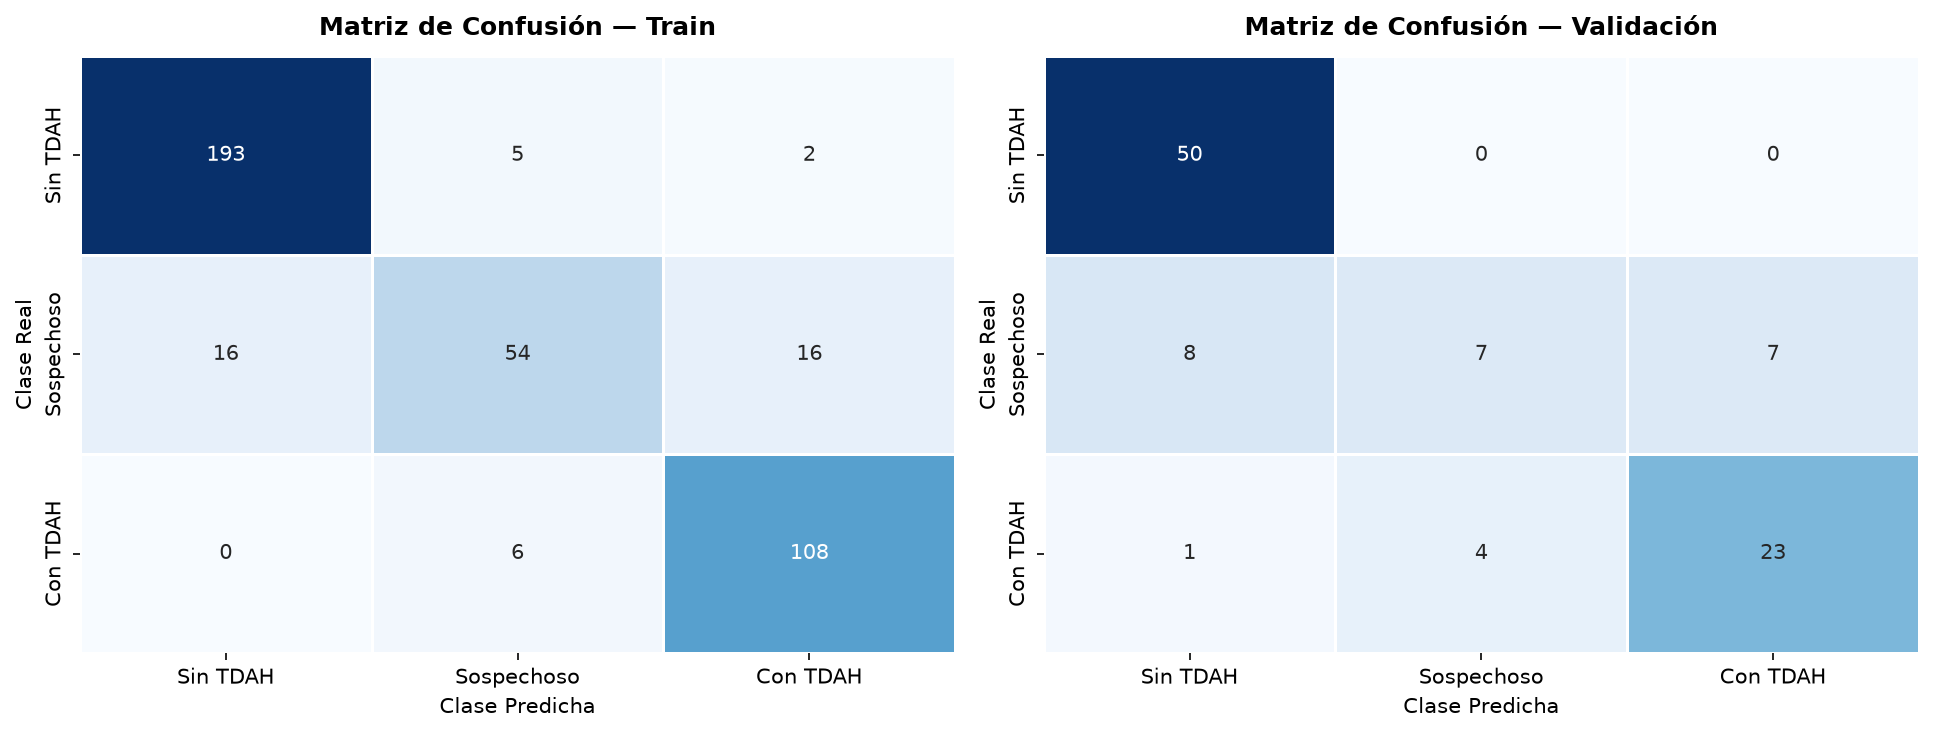
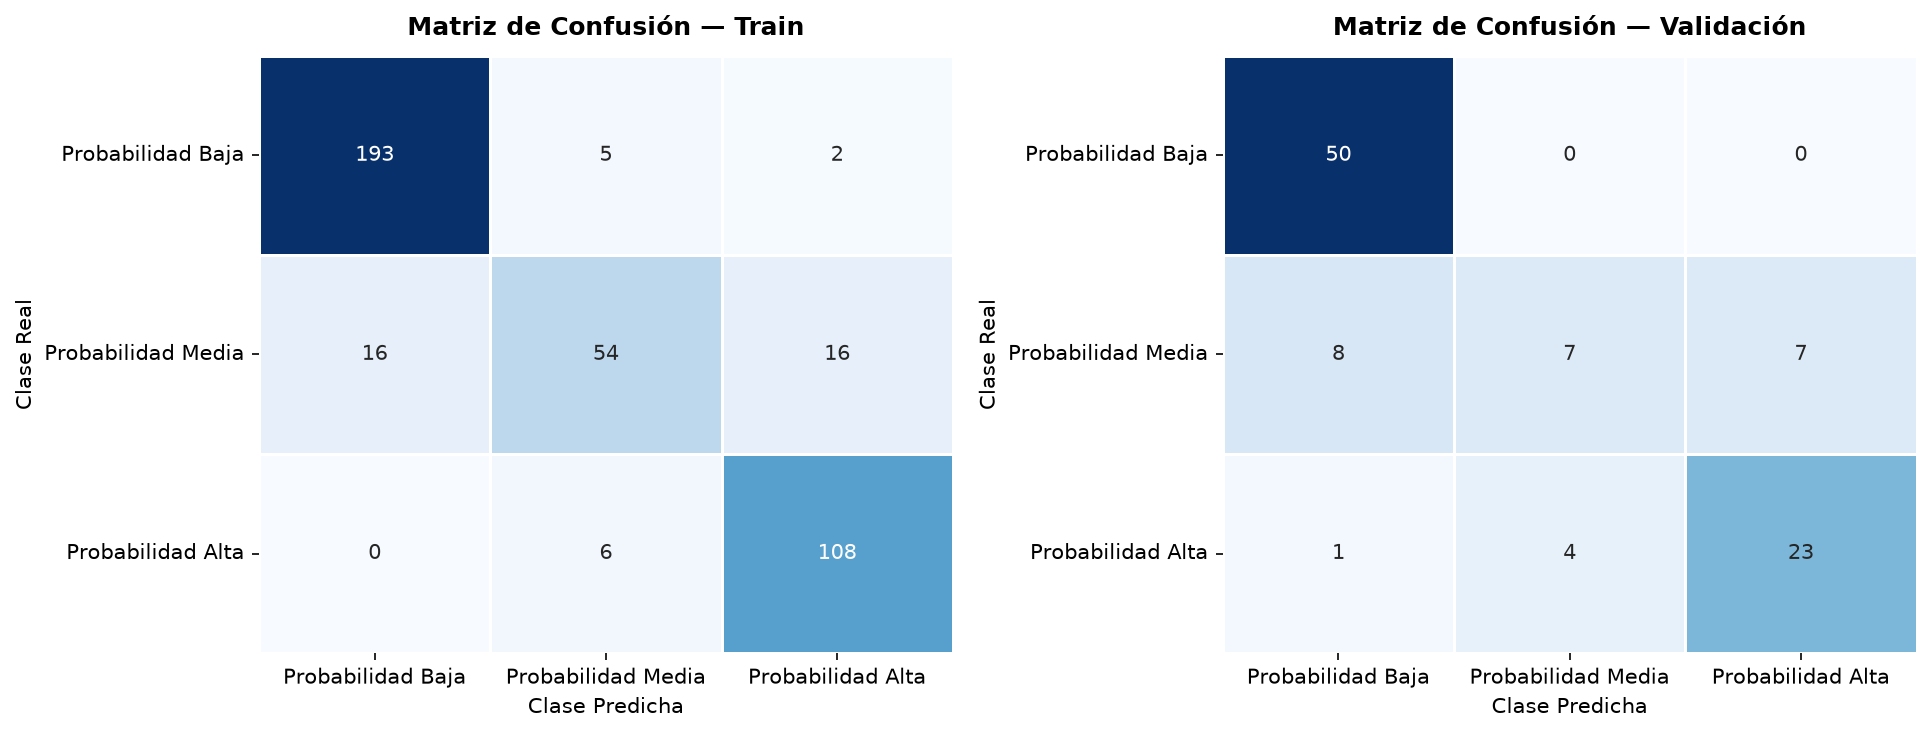
Soporte PostgreSQL, roles y configuracion para despliegue
- database.py configurable (PostgreSQL via DATABASE_URL, SQLite local) + .env
- models.py: longitudes de columnas ampliadas (compatibles con PostgreSQL)
- main.py: CORS configurable via CORS_ORIGINS
- frontend: URL de API configurable via VITE_API_URL
- roles con restricciones (Administrador/Psicologo/Docente)
- requirements con versiones fijadas + runtime.txt (Python 3.13) para Render
- etiquetas de figuras TDAH a "Probabilidad Baja/Media/Alta"

diff --git a/frontend/src/App.jsx b/frontend/src/App.jsx
@@ -4,14 +4,21 @@ import {
   Tooltip, Legend, ResponsiveContainer,
 } from "recharts";
 
-const API = "http://127.0.0.1:8000/api";
+// URL del backend: configurable por variable de entorno (VITE_API_URL) para el
+// despliegue; si no está definida, usa el backend local (desarrollo).
+const API = (import.meta.env.VITE_API_URL || "http://127.0.0.1:8000") + "/api";
 const views = ["dashboard", "general", "alumno", "lista", "encuesta", "predicciones", "notas", "expediente"];
 
-// Qué vistas puede ver cada rol (el docente no accede al expediente psicológico)
+// Restricciones de acceso por rol (basadas en confidencialidad clínica):
+//  - Psicólogo: acceso clínico COMPLETO (aplica EDAH, predice, ve SHAP y expediente).
+//  - Docente: solo lo ACADÉMICO (panorama general, lista e ingreso de notas).
+//             No accede a la encuesta EDAH, predicciones detalladas ni expediente.
+//  - Director: solo SUPERVISIÓN/lectura (dashboards y lista). No ingresa datos
+//              clínicos ni notas, ni accede al expediente psicológico confidencial.
 const VIEWS_POR_ROL = {
   "Administrador": views,
-  "Psicólogo": views,
-  "Docente": ["dashboard", "general", "alumno", "lista", "encuesta", "predicciones", "notas"],
+  "Psicólogo":     views,
+  "Docente":       ["dashboard", "general", "lista", "notas"],
 };
 const encuestaKeys = [
   "DA1", "DA2", "DA3", "DA4", "DA5",
@@ -69,7 +76,7 @@ const ASIGNATURAS_VALIDAS = [
   "Formación Integral",
 ];
 
-// Usuarios y roles que pueden acceder al sistema
+// Usuarios y roles que pueden acceder al sistema (Director / Psicólogo / Docente)
 const USUARIOS = {
   admin:     { password: "admin123",   rol: "Administrador" },
   psicologo: { password: "psico123",   rol: "Psicólogo" },
@@ -517,6 +524,9 @@ export default function App() {
   const [encuestaRespuestas, setEncuestaRespuestas] = useState([]);
 
   const goToView = (v) => {
+    // Control de acceso: el rol no puede navegar a vistas que no tiene permitidas.
+    const permitidas = VIEWS_POR_ROL[auth.rol] ?? views;
+    if (!permitidas.includes(v)) return;
     setActiveView(v);
     setStatus({ msg: "", error: false });
     setAlumnoFormError("");
@@ -529,6 +539,12 @@ export default function App() {
     if (v === "lista") loadTodosPredicciones();
     if (v === "general") { loadTodosPredicciones(); loadMetricas(); }
   };
+
+  // Seguridad: si el rol activo no tiene permiso para la vista actual, vuelve al dashboard.
+  useEffect(() => {
+    const permitidas = VIEWS_POR_ROL[auth.rol] ?? views;
+    if (auth.logged && !permitidas.includes(activeView)) setActiveView("dashboard");
+  }, [activeView, auth.rol, auth.logged]);
 
   async function loadMetricas() {
     try { setMetricas(await req("/metricas/")); } catch { setMetricas(null); }
@@ -805,9 +821,9 @@ export default function App() {
           </form>
           <div style={{ fontSize: "0.78rem", color: "#64748b", marginTop: 6, lineHeight: 1.7 }}>
             <div><strong>Accesos:</strong></div>
-            <div>👤 Administrador — <strong>admin</strong> / admin123</div>
-            <div>🧠 Psicólogo — <strong>psicologo</strong> / psico123</div>
-            <div>📚 Docente — <strong>docente</strong> / docente123</div>
+            <div>👤 Administrador — <strong>admin</strong> / admin123 <em>(acceso completo)</em></div>
+            <div>🧠 Psicólogo — <strong>psicologo</strong> / psico123 <em>(clínico completo)</em></div>
+            <div>📚 Docente — <strong>docente</strong> / docente123 <em>(académico)</em></div>
           </div>
           {status.msg && <p className="status" style={{ color: status.error ? "#d62828" : "#14732b" }}>{status.msg}</p>}
         </section>
@@ -838,7 +854,7 @@ export default function App() {
           <span className="sidebar-logo">📖</span>
           <div>
             <h2>Sistema</h2>
-            <span>{auth.rol || "admin"}</span>
+            <span>{auth.rol || "Usuario"}</span>
           </div>
         </div>
         <nav>

diff --git a/backend_fastapi/database.py b/backend_fastapi/database.py
@@ -1,10 +1,32 @@
+import os
+from dotenv import load_dotenv
 from sqlalchemy import create_engine
 from sqlalchemy.orm import sessionmaker, DeclarativeBase
 
-SQLALCHEMY_DATABASE_URL = "sqlite:///./tesis.db"
+# Carga las variables de un archivo .env local (si existe) antes de leerlas.
+# En producción (Render, etc.) las variables se definen en el panel del proveedor.
+load_dotenv()
 
-engine = create_engine(SQLALCHEMY_DATABASE_URL, connect_args={"check_same_thread": False})
+# La URL de la base de datos se lee del entorno (variable DATABASE_URL).
+#  - En PRODUCCIÓN: se define DATABASE_URL con la cadena de PostgreSQL
+#    (ej. postgresql://usuario:clave@host:5432/basedatos) → los datos PERSISTEN.
+#  - En DESARROLLO local: si no se define, usa SQLite (no requiere instalar nada).
+DATABASE_URL = os.getenv("DATABASE_URL", "sqlite:///./tesis.db")
+
+# Algunos proveedores (Render, Heroku) entregan la URL como "postgres://",
+# pero SQLAlchemy requiere el prefijo "postgresql://".
+if DATABASE_URL.startswith("postgres://"):
+    DATABASE_URL = DATABASE_URL.replace("postgres://", "postgresql://", 1)
+
+# connect_args con check_same_thread SOLO aplica a SQLite. Para PostgreSQL se usa
+# pool_pre_ping, que reabre conexiones caídas (importante en la nube).
+if DATABASE_URL.startswith("sqlite"):
+    engine = create_engine(DATABASE_URL, connect_args={"check_same_thread": False})
+else:
+    engine = create_engine(DATABASE_URL, pool_pre_ping=True)
+
 SessionLocal = sessionmaker(autocommit=False, autoflush=False, bind=engine)
+
 
 class Base(DeclarativeBase):
     pass

diff --git a/entrenar_modelo.py b/entrenar_modelo.py
@@ -105,7 +105,7 @@ print(f"\nAccuracy  Train: {acc_tr:.4f}  Val: {acc_va:.4f}  (brecha: {acc_tr - a
 print("\n--- Reporte en Validación ---")
 print(classification_report(
     y_val, modelo.predict(X_val),
-    target_names=["Sin TDAH", "Sospechoso", "Con TDAH"],
+    target_names=["Probabilidad Baja", "Probabilidad Media", "Probabilidad Alta"],
 ))
 
 print("Importancia de features (gain):")
@@ -117,7 +117,7 @@ for feat, imp in sorted(zip(FEATURE_NAMES, modelo.feature_importances_), key=lam
 # ==============================================================================
 # Comparar Train con Val por clase permite ver el sobreajuste de un vistazo: si
 # las barras de Train y Val quedan cercanas, el modelo generaliza (no memoriza).
-CLASES = ["Sin TDAH", "Sospechoso", "Con TDAH"]
+CLASES = ["Probabilidad Baja", "Probabilidad Media", "Probabilidad Alta"]
 
 y_pred_train = modelo.predict(X_train)
 y_pred_val   = modelo.predict(X_val)

diff --git a/backend_fastapi/main.py b/backend_fastapi/main.py
@@ -29,9 +29,17 @@ with engine.connect() as _conn:
 
 app = FastAPI(title="Tesis API", version="1.0.0")
 
+# CORS: en desarrollo se permite localhost. En producción se agregan los dominios
+# del frontend desplegado mediante la variable de entorno CORS_ORIGINS
+# (separados por coma), por ejemplo: "https://mi-tesis.vercel.app".
+_origins = ["http://localhost:5173", "http://127.0.0.1:5173"]
+_extra = os.getenv("CORS_ORIGINS", "")
+if _extra:
+    _origins += [o.strip() for o in _extra.split(",") if o.strip()]
+
 app.add_middleware(
     CORSMiddleware,
-    allow_origins=["http://localhost:5173", "http://127.0.0.1:5173"],
+    allow_origins=_origins,
     allow_credentials=True,
     allow_methods=["*"],
     allow_headers=["*"],

diff --git a/backend_fastapi/alumnos/models.py b/backend_fastapi/alumnos/models.py
@@ -10,11 +10,11 @@ class Alumno(Base):
     nombre = Column(String(100), nullable=False)
     apellido = Column(String(100), nullable=False)
     edad = Column(Integer, nullable=False)
-    grado = Column(String(10), nullable=False)
+    grado = Column(String(50), nullable=False)
     anio_cursada = Column(Integer, default=2024)
-    contacto_emergente = Column(String(20), nullable=False)
-    condicion_social = Column(String(10), default="NINGUNA")
-    genero = Column(String(20), default="No especificado")
+    contacto_emergente = Column(String(100), nullable=False)
+    condicion_social = Column(String(50), default="NINGUNA")
+    genero = Column(String(30), default="No especificado")
 
 
 class Encuesta(Base):
